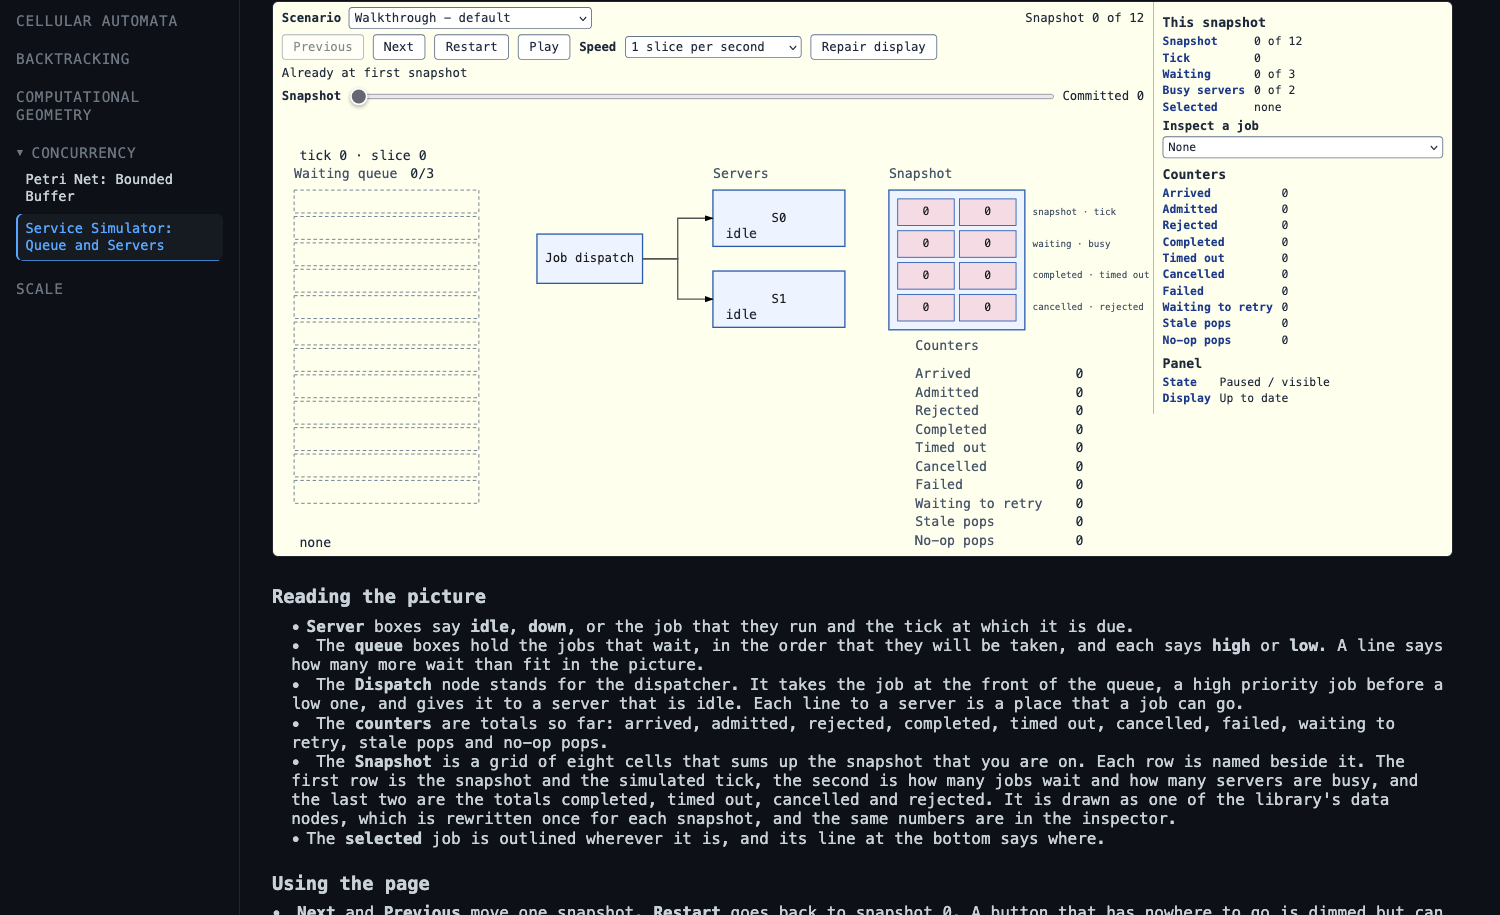
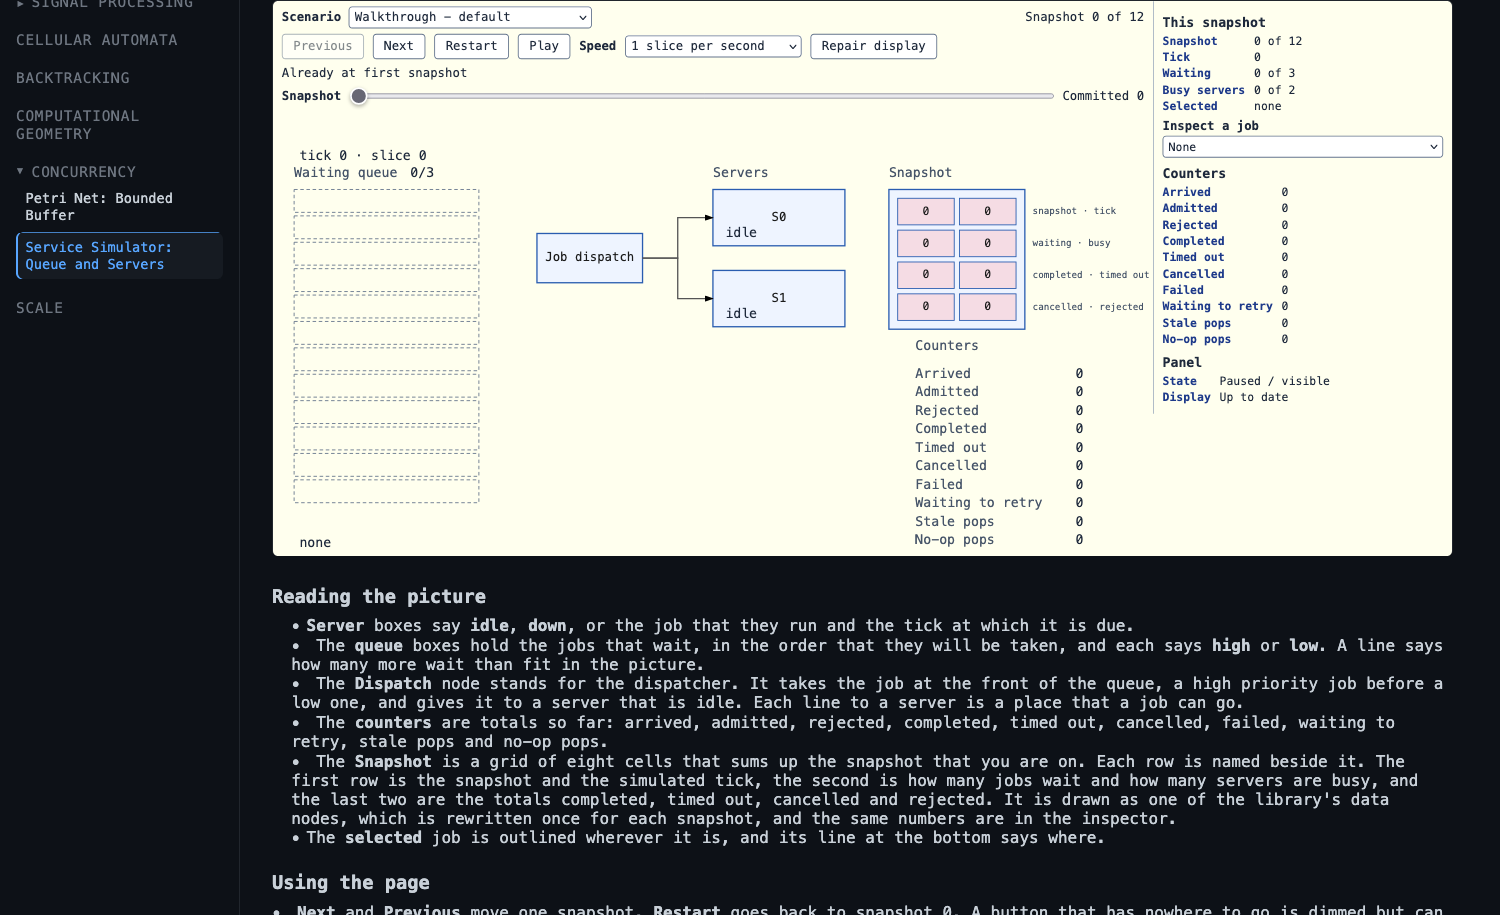
DESS Demo P4: Evidence gathered by running script

diff --git a/demo/changelog.md b/demo/changelog.md
@@ -54,6 +54,7 @@ The format is based on [Keep a Changelog](https://keepachangelog.com/en/1.0.0/).
 - DESS Demo P3: Evidence gathered by running script (`41beb8e`)
 - DESS Demo P4: Advance/Scale and release (`d652bae`)
 - DESS Demo P4: Evidence gathered by running script (`0fd5394`)
+- DESS Demo P4: Evidence gathered by running script (``)
 
 ### Changed
 
@@ -165,4 +166,4 @@ The format is based on [Keep a Changelog](https://keepachangelog.com/en/1.0.0/).
 - DESS Demo P3: Maintain the previously focused control after failed publication (`9603e0a`)
 - DESS Demo P4: Prevent publication from losing focus after the final controller check fails (`2c84797`)
 - DESS Demo P4: G20 measure `externref` leaks from occupied references not just table capacity (`55734a7`)
-- DESS Demo P4: G20 Strengthen stale-callback assertion (``)
+- DESS Demo P4: G20 Strengthen stale-callback assertion (`3efd783`)
